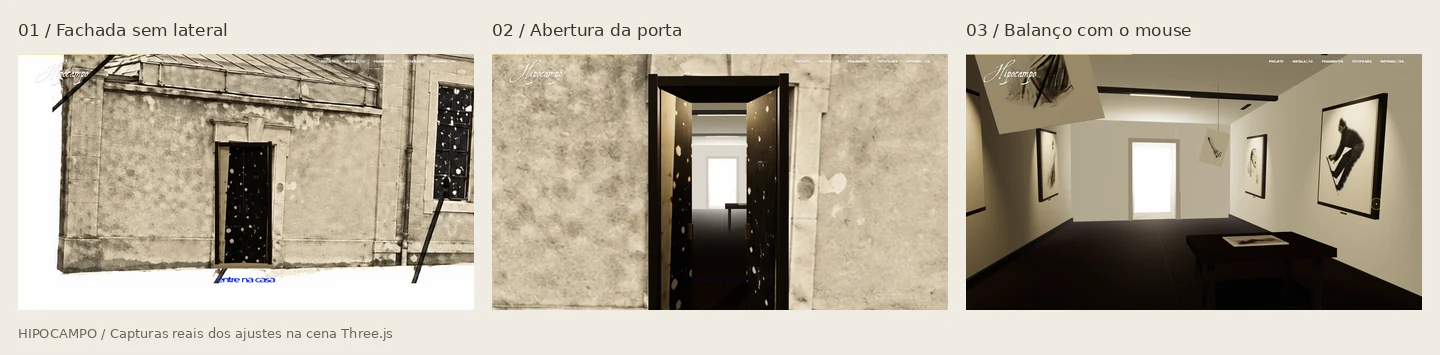
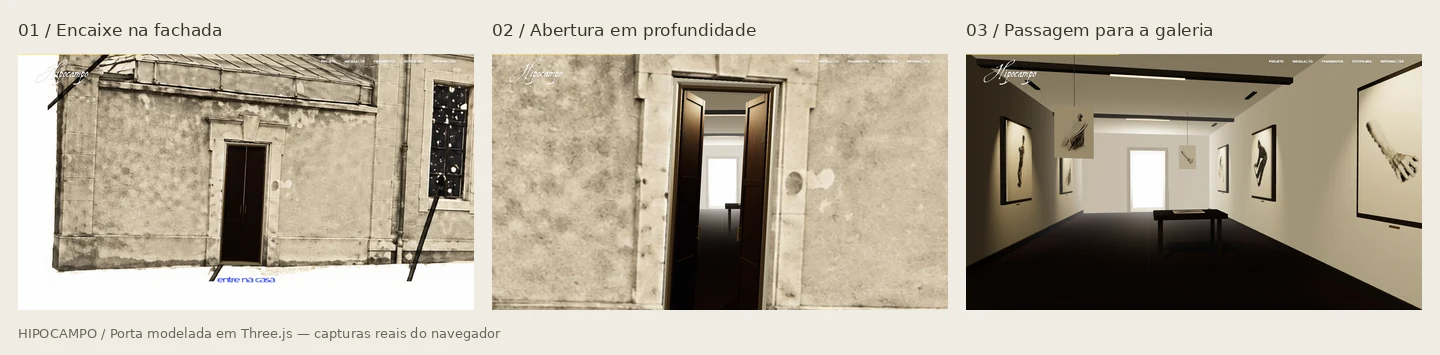
fix(casa): encaixar porta na fachada e modelar folhas em 3D

diff --git a/Kimi_Agent_HIPOCAMPO 3D Interactive Site/hipocampo/public/assets/house-doorway.js b/Kimi_Agent_HIPOCAMPO 3D Interactive Site/hipocampo/public/assets/house-doorway.js
@@ -1,0 +1,122 @@
+import * as THREE from './vendor/three.module.min.js'
+
+// Inner stone opening measured on peca-16-hd.webp (1712 x 1408).
+// Clockwise from the top left. Keep the photographed stone surround intact.
+const PHOTO_SIZE = [1712, 1408]
+const PHOTO_CORNERS = [[462, 1038], [571, 1045], [553, 1345], [447, 1343]]
+
+export function fitHouseDoorway(houseData, unit, toWorld) {
+  const corners = PHOTO_CORNERS.map(([x, y]) => toWorld(
+    houseData.x + x / PHOTO_SIZE[0] * houseData.w,
+    houseData.y + y / PHOTO_SIZE[1] * houseData.h,
+  ))
+  const center = corners.reduce((sum, p) => sum.add(p), new THREE.Vector3()).multiplyScalar(.25)
+  const bottom = corners[2].clone().add(corners[3]).multiplyScalar(.5)
+  const top = corners[0].clone().add(corners[1]).multiplyScalar(.5)
+  const width = ((corners[1].x - corners[0].x) + (corners[2].x - corners[3].x)) / 2
+  const height = top.y - bottom.y
+  const horizontal = corners[1].clone().sub(corners[0]).add(corners[2].clone().sub(corners[3])).multiplyScalar(.5 / width)
+  const vertical = top.clone().sub(bottom).multiplyScalar(1 / height)
+  const matrix = new THREE.Matrix4().set(
+    horizontal.x, vertical.x, 0, bottom.x - center.x,
+    horizontal.y, vertical.y, 0, 0,
+    0, 0, 1, 0,
+    0, 0, 0, 1,
+  )
+  const localCorners = corners.map(p => new THREE.Vector3(p.x - center.x, p.y - bottom.y, 0))
+  const edges = corners.map((p, i) => {
+    const next = corners[(i + 1) % corners.length]
+    const normal = new THREE.Vector3(-(next.y - p.y), next.x - p.x, 0).normalize()
+    normal.z = -(normal.x * p.x + normal.y * p.y)
+    if (normal.x * center.x + normal.y * center.y + normal.z < 0) normal.negate()
+    return normal
+  })
+  const modelCorners = [[-width / 2, height], [width / 2, height], [width / 2, 0], [-width / 2, 0]]
+  const residual = Math.max(...modelCorners.map(([x, y], i) => new THREE.Vector3(x, y, 0).applyMatrix4(matrix).distanceTo(localCorners[i])))
+  return { center, width, height, floorY: bottom.y, localCorners, edges, matrix, modelFitResidualPx: residual * unit * PHOTO_SIZE[0] / houseData.w }
+}
+
+function chamferedBox(width, height, depth, bevel = .003) {
+  const b = Math.min(bevel, width / 4, height / 4, depth / 4)
+  const w = width / 2 - b, h = height / 2 - b
+  const outline = new THREE.Shape()
+  outline.moveTo(-w, -h)
+  outline.lineTo(w, -h)
+  outline.lineTo(w, h)
+  outline.lineTo(-w, h)
+  outline.closePath()
+  const geometry = new THREE.ExtrudeGeometry(outline, { depth: depth - 2 * b, steps: 1, bevelEnabled: true, bevelThickness: b, bevelSize: b, bevelSegments: 2, curveSegments: 1 })
+  geometry.translate(0, 0, -(depth - 2 * b) / 2)
+  return geometry
+}
+
+export function buildHouseDoorway({ parent, profile, mesh, box, mat, woodMap, plasterMap, textures }) {
+  const { width: w, height: h } = profile
+  const grain = woodMap.clone()
+  grain.repeat.set(.8, 1.6)
+  grain.center.set(.5, .5)
+  grain.rotation = Math.PI / 2
+  grain.needsUpdate = true
+  textures.add(grain)
+  const material = options => mat({ stencilWrite: false, ...options })
+  const oak = material({ color: '#a59173', map: grain, bumpMap: grain, bumpScale: .006, roughness: .78 })
+  const insetOak = material({ color: '#756750', map: grain, bumpMap: grain, bumpScale: .004, roughness: .86 })
+  const endGrain = material({ color: '#61513b', roughness: .88 })
+  const limestone = material({ color: '#dedbd2', bumpMap: plasterMap, bumpScale: .012, roughness: .98 })
+  const thresholdStone = material({ color: '#929083', bumpMap: plasterMap, bumpScale: .012, roughness: .99 })
+  const agedBrass = material({ color: '#9c8053', metalness: .55, roughness: .6 })
+  const iron = material({ color: '#39362e', metalness: .45, roughness: .72 })
+  const chamfer = (group, dimensions, surface, at, bevel = .003) => mesh(group, chamferedBox(...dimensions, bevel), surface, at)
+
+  // Recessed lining: its front stays behind the stone photographed at z=0.
+  // No oversized black frame or projecting yellow platform covers that stone.
+  for (const side of [-1, 1]) {
+    box(parent, [.016, h, .3], limestone, [side * (w / 2 - .008), h / 2, -.16])
+    chamfer(parent, [.025, h - .04, .075], endGrain, [side * (w / 2 - .04), h / 2, -.079])
+  }
+  box(parent, [w, .016, .3], limestone, [0, h - .008, -.16])
+  chamfer(parent, [w - .07, .025, .075], endGrain, [0, h - .043, -.079])
+  chamfer(parent, [w, .03, .28], thresholdStone, [0, .007, -.145], .004)
+
+  const openingW = w - .094, leafH = h - .092, leafW = openingW / 2 - .003
+  const doors = []
+  for (const side of [-1, 1]) {
+    const pivot = new THREE.Group()
+    pivot.name = side < 0 ? 'house-door-left' : 'house-door-right'
+    pivot.position.set(side * openingW / 2, h / 2, -.115)
+    parent.add(pivot)
+    const leaf = new THREE.Group()
+    leaf.position.x = -side * leafW / 2
+    pivot.add(leaf)
+    // Raised stiles/rails and genuinely recessed panels catch moving light.
+    chamfer(leaf, [leafW, leafH, .035], insetOak, [0, 0, -.015], .004)
+    const stileW = .041, railH = .064
+    for (const x of [-leafW / 2 + stileW / 2, leafW / 2 - stileW / 2]) chamfer(leaf, [stileW, leafH, .028], oak, [x, 0, .009])
+    const panelH = (leafH - railH * 4) / 3
+    for (let i = 0; i < 4; i++) {
+      const y = -leafH / 2 + railH / 2 + i * (panelH + railH)
+      chamfer(leaf, [leafW - 2 * stileW, railH, .028], oak, [0, y, .009])
+    }
+    for (let i = 0; i < 3; i++) {
+      const y = -leafH / 2 + railH + panelH / 2 + i * (panelH + railH)
+      chamfer(leaf, [leafW - 2 * stileW - .012, panelH - .012, .014], oak, [0, y, -.004], .005)
+    }
+    const handleX = -side * (leafW / 2 - .047)
+    chamfer(leaf, [.027, .2, .008], iron, [handleX, -.12, .028], .002)
+    for (const y of [-.174, -.066]) {
+      const bracket = mesh(leaf, new THREE.CylinderGeometry(.0045, .0045, .025, 8), agedBrass, [handleX, y, .042])
+      bracket.rotation.x = Math.PI / 2
+    }
+    mesh(leaf, new THREE.CylinderGeometry(.009, .009, .13, 10), agedBrass, [handleX, -.12, .055])
+    for (const y of [-leafH * .33, leafH * .33]) {
+      chamfer(leaf, [.055, .08, .006], iron, [side * (leafW / 2 - .024), y, .025], .0015)
+      mesh(leaf, new THREE.CylinderGeometry(.009, .009, .084, 10), iron, [side * leafW / 2, y, .018])
+    }
+    doors.push({ pivot, side })
+  }
+  // Light the physical front surfaces; the photographic facade stays unlit.
+  const porchLight = new THREE.PointLight('#f8ead2', 7, 6, 2)
+  porchLight.position.set(-.9, 3.1, 2.6)
+  parent.add(porchLight)
+  return { doors, leafThickness: .056, hingeDepth: -.115 }
+}

diff --git a/Kimi_Agent_HIPOCAMPO 3D Interactive Site/hipocampo/public/assets/house-interior.js b/Kimi_Agent_HIPOCAMPO 3D Interactive Site/hipocampo/public/assets/house-interior.js
@@ -1,11 +1,12 @@
 import * as THREE from './vendor/three.module.min.js'
+import { buildHouseDoorway } from './house-doorway.js?v=door-fit-1'
 
 // The archive is built in metres, at the same scale as the photographed door.
 // The camera traverses its threshold and exit; no screen-space opening is used.
-export function createHouseInterior({ scene, door, facade, houseData, unit, pieces, loadTexture }) {
+export function createHouseInterior({ scene, door, facade, doorway, unit, pieces, loadTexture }) {
   const width = 5.8, height = 3.65, depth = 14
-  const doorW = .94, doorH = 2.3
-  const floorY = door.y - doorH / 2
+  const doorW = doorway.width, doorH = doorway.height
+  const floorY = doorway.floorY
   const root = new THREE.Group()
   root.name = 'house-archive'
   root.position.set(door.x, floorY, 0)
@@ -35,12 +36,6 @@ export function createHouseInterior({ scene, door, facade, houseData, unit, piec
     portalMaterials.add(m)
     return m
   }
-  const unmasked = material => {
-    const m = material.clone()
-    m.stencilWrite = false
-    surfaces.add(m)
-    return m
-  }
 
   // Before crossing the threshold, the archive may only be seen through the
   // doorway. A stencil aperture also hides walls beyond the photo's silhouette.
@@ -50,7 +45,10 @@ export function createHouseInterior({ scene, door, facade, houseData, unit, piec
     stencilZPass: THREE.ReplaceStencilOp,
   })
   surfaces.add(portalMaterial)
-  const portal = mesh(root, new THREE.PlaneGeometry(doorW, doorH), portalMaterial, [0, doorH / 2, 0], false)
+  const portalOutline = new THREE.Shape()
+  doorway.localCorners.forEach((p, i) => i ? portalOutline.lineTo(p.x, p.y) : portalOutline.moveTo(p.x, p.y))
+  portalOutline.closePath()
+  const portal = mesh(root, new THREE.ShapeGeometry(portalOutline), portalMaterial, [0, 0, 0], false)
   portal.name = 'house-door-portal'
   portal.renderOrder = -30
   let portalActive = true
@@ -155,39 +153,22 @@ export function createHouseInterior({ scene, door, facade, houseData, unit, piec
   root.add(thresholdLight)
 
   // The photographic door has a fixed architectural opening in world space.
-  const aperture = new THREE.Vector4(door.x, floorY + doorH / 2, doorW / 2, doorH / 2)
   facade.onBeforeCompile = shader => {
-    shader.uniforms.houseDoor = { value: aperture }
+    shader.uniforms.houseEdges = { value: doorway.edges }
     shader.vertexShader = 'varying vec2 houseWorldXY;\n' + shader.vertexShader.replace('#include <begin_vertex>', '#include <begin_vertex>\nhouseWorldXY = (modelMatrix * vec4(transformed, 1.0)).xy;')
-    shader.fragmentShader = 'varying vec2 houseWorldXY;\nuniform vec4 houseDoor;\n' + shader.fragmentShader.replace('#include <clipping_planes_fragment>', '#include <clipping_planes_fragment>\nvec2 opening = abs(houseWorldXY - houseDoor.xy) - houseDoor.zw;\nif (max(opening.x, opening.y) < 0.0) discard;')
+    shader.fragmentShader = 'varying vec2 houseWorldXY;\nuniform vec3 houseEdges[4];\n' + shader.fragmentShader.replace('#include <clipping_planes_fragment>', '#include <clipping_planes_fragment>\nbool houseInside = true;\nfor (int i = 0; i < 4; i++) { houseInside = houseInside && dot(houseEdges[i], vec3(houseWorldXY, 1.0)) > 0.0; }\nif (houseInside) discard;')
   }
-  facade.customProgramCacheKey = () => 'house-physical-door-v2'
+  facade.customProgramCacheKey = () => 'house-calibrated-door-v1'
   const entrance = new THREE.Group()
+  entrance.name = 'house-entrance'
+  entrance.matrixAutoUpdate = false
+  entrance.matrix.copy(doorway.matrix)
   root.add(entrance)
   const sideW = (width - doorW) / 2
   const frontPanels = [-1, 1].map(side => box(entrance, [sideW, height, .2], plaster, [side * (doorW / 2 + sideW / 2), height / 2, -.18], false))
   box(entrance, [doorW, height - doorH, .2], plaster, [0, doorH + (height - doorH) / 2, -.18], false)
-  const entranceWood = unmasked(darkWood), entranceBrass = unmasked(brass), entranceStone = unmasked(stone)
-  for (const x of [-doorW / 2 - .035, doorW / 2 + .035]) box(entrance, [.07, doorH + .08, .48], entranceWood, [x, (doorH + .08) / 2, -.13])
-  box(entrance, [doorW + .14, .075, .48], entranceWood, [0, doorH + .025, -.13])
-  box(entrance, [doorW + .2, .055, .6], entranceStone, [0, .015, -.12])
-  const doors = []
-  const u0 = (277 - doorW * unit / 2 - houseData.x) / houseData.w
-  const v0 = 1 - (527 + doorH * unit / 2 - houseData.y) / houseData.h
-  for (const side of [-1, 1]) {
-    const pivot = new THREE.Group()
-    pivot.position.set(side * doorW / 2, doorH / 2, .025)
-    entrance.add(pivot)
-    const doorTexture = facade.map.clone()
-    doorTexture.offset.set(u0 + (side > 0 ? doorW * unit / (2 * houseData.w) : 0), v0)
-    doorTexture.repeat.set(doorW * unit / (2 * houseData.w), doorH * unit / houseData.h)
-    doorTexture.needsUpdate = true
-    textures.add(doorTexture)
-    const face = mat({ map: doorTexture, roughness: .84, stencilWrite: false })
-    const panel = box(pivot, [doorW / 2, doorH, .065], [entranceWood, entranceWood, entranceWood, entranceWood, face, entranceWood], [-side * doorW / 4, 0, -.02])
-    box(pivot, [.023, .14, .045], entranceBrass, [-side * (doorW / 2 - .07), -.06, .04])
-    doors.push({ pivot, side, panel })
-  }
+  const entryModel = buildHouseDoorway({ parent: entrance, profile: doorway, mesh, box, mat, woodMap, plasterMap, textures })
+  const doors = entryModel.doors
 
   // A table and suspended prints create near/middle/far parallax in the archive.
   const table = new THREE.Group()
@@ -260,7 +241,7 @@ export function createHouseInterior({ scene, door, facade, houseData, unit, piec
         m.position.x = (i ? 1 : -1) * (currentWidth + exitW) / 4
       })
     },
-    inspect: () => ({ portalActive, doorway: { center: [door.x, floorY + doorH / 2, 0], width: doorW, height: doorH }, swings: pendulums.map(p => ({ angle: p.angle, velocity: p.velocity, free: p.free })) }),
+    inspect: () => ({ portalActive, doorway: { center: [door.x, floorY + doorH / 2, 0], width: doorW, height: doorH, corners: doorway.localCorners.map(p => [door.x + p.x, floorY + p.y, 0]), modelFitResidualPx: doorway.modelFitResidualPx, leafThickness: entryModel.leafThickness, hingeDepth: entryModel.hingeDepth }, swings: pendulums.map(p => ({ angle: p.angle, velocity: p.velocity, free: p.free })) }),
     update(open, time, motion, pointer, dt, camera) {
       // Switch only after the aperture fills the view, before its near plane
       // can be clipped. The same rule applies when scrolling backwards.

diff --git a/Kimi_Agent_HIPOCAMPO 3D Interactive Site/hipocampo/public/assets/page3-house.js b/Kimi_Agent_HIPOCAMPO 3D Interactive Site/hipocampo/public/assets/page3-house.js
@@ -1,14 +1,14 @@
 // A continuous camera passes through a physical doorway, crosses the archive
 // and leaves through its far opening. The original memory map stays aligned.
 import * as THREE from './vendor/three.module.min.js'
-import { createHouseInterior } from './house-interior.js?v=door-sway-1'
+import { createHouseInterior } from './house-interior.js?v=door-fit-1'
+import { fitHouseDoorway } from './house-doorway.js?v=door-fit-1'
 import { n as gsap, t as ScrollTrigger } from './index-BXEErpTi.js?v=perf-1'
 
 gsap.registerPlugin(ScrollTrigger)
 
 const MANIFEST_URL = '/images/map/manifest.json'
 const UNIT = 16 // the photographed doorway is approximately 1 × 2.3 metres
-const DOOR_PX = { x: 277, y: 527 } // porta da casa (coordenadas da imagem fonte)
 const clamp = (v, a, b) => Math.min(b, Math.max(a, v))
 const smooth = (a, b, v) => { const t = clamp((v - a) / (b - a), 0, 1); return t * t * (3 - 2 * t) }
 const lerp = (a, b, t) => a + (b - a) * t
@@ -106,8 +106,9 @@ async function mount(section) {
   const lineMat = new THREE.LineBasicMaterial({ color: manifest.lineColor, transparent: true, toneMapped: false })
   scene.add(new THREE.LineSegments(lineGeo, lineMat))
 
-  const door = toWorld(DOOR_PX.x, DOOR_PX.y)
-  const archive = createHouseInterior({ scene, door, facade: housePiece.mat, houseData: housePiece.d, unit: UNIT, pieces: others, loadTexture })
+  const doorway = fitHouseDoorway(housePiece.d, UNIT, toWorld)
+  const door = doorway.center
+  const archive = createHouseInterior({ scene, door, facade: housePiece.mat, doorway, unit: UNIT, pieces: others, loadTexture })
 
   // ---------- câmera ----------
   const mapH = manifest.height / UNIT
@@ -305,7 +306,7 @@ async function mount(section) {
     renderer.setClearColor(0xffffff, reduced ? 1 : smooth(0.0, 0.05, p))
 
     capA.style.opacity = String(reduced ? 0 : smooth(0.01, 0.08, p) * (1 - smooth(0.2, 0.3, p)))
-    capB.style.opacity = String(reduced ? 0 : smooth(.22, .29, p) * (1 - smooth(.37, .43, p)))
+    capB.style.opacity = String(reduced ? 0 : smooth(.22, .29, p) * (1 - smooth(.30, .36, p)))
     renderer.toneMappingExposure = lerp(.95, 1.35, leave)
     if (!reduced && p >= .995) {
       renderer.setClearColor(exitPaper, 1)

diff --git a/Kimi_Agent_HIPOCAMPO 3D Interactive Site/hipocampo/index.html b/Kimi_Agent_HIPOCAMPO 3D Interactive Site/hipocampo/index.html
@@ -35,7 +35,7 @@
     <script type="module" src="/assets/hero-motion.js?v=navigation-3"></script>
     <script type="module" src="/assets/page2-motion.js?v=perf-1"></script>
     <script type="module" src="/assets/memory-map.js?v=perf-1"></script>
-    <script type="module" src="/assets/page3-house.js?v=door-sway-1"></script>
+    <script type="module" src="/assets/page3-house.js?v=door-fit-1"></script>
     <script type="module" src="/assets/page4-sobre.js?v=pointer-4"></script>
     <script type="module" src="/assets/page5-vestigios.js?v=1"></script>
     <script type="module" src="/assets/editorial-motion.js?v=perf-1"></script>

diff --git a/Kimi_Agent_HIPOCAMPO 3D Interactive Site/hipocampo/tools/house-journey-qa.py b/Kimi_Agent_HIPOCAMPO 3D Interactive Site/hipocampo/tools/house-journey-qa.py
@@ -73,9 +73,40 @@ def pointer_handoff_check(page,w,h):
     check(f'{w}: entrada e retorno contínuos com mouse fora do centro', jump<.025 and turn<.002 and return_jump<.025 and return_turn<.002, {'distance':jump,'rotation':turn,'return_distance':return_jump,'return_rotation':return_turn})
 
 
+def fitted_door_check(page,w):
+    go(page,.37)
+    projection=page.evaluate('''()=>{
+      const {scene,camera,THREE,renderer}=window.__houseQA;
+      let facade;
+      scene.traverse(o=>{if(o.isMesh&&o.material.map?.image?.width===1712&&o.material.map.image.height===1408)facade=o;});
+      const portal=scene.getObjectByName('house-door-portal');
+      const vertices=portal.geometry.attributes.position;
+      const actual=Array.from({length:vertices.count},(_,i)=>portal.localToWorld(new THREE.Vector3().fromBufferAttribute(vertices,i)).project(camera));
+      const {width,height}=facade.geometry.parameters;
+      const reference=[[462,1038],[571,1045],[553,1345],[447,1343]].map(([x,y])=>facade.localToWorld(new THREE.Vector3((x/1712-.5)*width,(.5-y/1408)*height,0)).project(camera));
+      const residuals=reference.map(p=>Math.min(...actual.map(q=>Math.hypot((p.x-q.x)*renderer.domElement.width/2,(p.y-q.y)*renderer.domElement.height/2))));
+      return {maximumPixelError:Math.max(...residuals),corners:actual.length};
+    }''')
+    check(f'{w}: abertura encaixada nos quatro cantos da fotografia',projection['corners']==4 and projection['maximumPixelError']<1,projection)
+    check(f'{w}: legenda libera a porta no enquadramento fechado',float(page.locator('.page3-caption--b').evaluate('el=>getComputedStyle(el).opacity'))<.01)
+    go(page,.29)
+    closed=page.evaluate('''()=>{
+      const {scene,THREE}=window.__houseQA;
+      return ['house-door-left','house-door-right'].map(name=>{const box=new THREE.Box3().setFromObject(scene.getObjectByName(name));return {front:box.max.z,back:box.min.z,depth:box.max.z-box.min.z};});
+    }''')
+    check(f'{w}: folhas têm volume e ficam recuadas na fachada',all(leaf['depth']>.07 and leaf['front']<-.025 for leaf in closed),closed)
+    go(page,.48)
+    opened=page.evaluate('''()=>{
+      const {scene,THREE}=window.__houseQA;
+      return ['house-door-left','house-door-right'].map(name=>new THREE.Box3().setFromObject(scene.getObjectByName(name)).min.z);
+    }''')
+    check(f'{w}: dobradiças abrem as duas folhas em profundidade',all(z<-.4 for z in opened),opened)
+
+
 def doorway_and_mouse_checks(page, w, h):
     go(page, .2)
     page.wait_for_function('window.__houseQA != null')
+    fitted_door_check(page,w)
     for progress in [.2,.29,.32,.37,.42,.48]:
         go(page, progress)
         pixels=page.evaluate('''()=>{

diff --git a/Kimi_Agent_HIPOCAMPO 3D Interactive Site/hipocampo/docs/house-journey.md b/Kimi_Agent_HIPOCAMPO 3D Interactive Site/hipocampo/docs/house-journey.md
@@ -11,7 +11,27 @@ com espessura, piso de madeira, paredes, teto, trilhos de luz, quadros com supor
 fotografias penduradas e mesa com uma impressão. A abertura em tela do shader
 `paper-transition.js` não é utilizada.
 
-![Fachada, porta e balanço: capturas reais dos ajustes no Three.js](house-journey-preview.webp)
+![Encaixe, abertura e passagem: capturas reais da porta no Three.js](house-journey-preview.webp)
+
+## Encaixe e construção da entrada
+
+A abertura acompanha os quatro cantos da porta na fotografia original
+`peca-16-hd.webp` (1712×1408). Essa calibração orienta o recorte da fachada,
+o stencil e a posição da entrada, preservando a pedra já presente na imagem.
+O centro e o nível do piso também vêm dessa abertura. Ao substituir a foto,
+atualize os pontos de referência em `house-doorway.js`.
+
+O conjunto de madeira acompanha os eixos da abertura. O batente fica recuado
+na pedra, com o eixo das dobradiças a 11,5 cm da fachada. Cada folha possui
+estrutura com cerca de 5,6 cm de espessura, montantes, travessas, três painéis
+rebaixados, bordas chanfradas, dobradiças e puxadores volumétricos. A textura
+de nogueira existente recebe acabamento escuro, relevo e luz; a fotografia da
+fachada não é mais esticada sobre as folhas.
+
+O revestimento interno é estreito e permanece atrás do plano da foto para
+evitar sobreposição. Uma soleira baixa em pedra escura integra o piso à entrada.
+Uma luz suave ilumina a frente das folhas enquanto abrem. A legenda de entrada
+desaparece entre 30% e 36% do percurso, antes do enquadramento fechado do batente.
 
 ## Balanço e oclusão da porta
 
@@ -21,7 +41,7 @@ quadros e 14,3° nas imagens livres. O movimento desacelera ao parar o mouse, se
 arrastar a página; o touch continua dedicado ao scroll. A integração usa o
 tempo entre frames e pequenos passos para manter o balanço estável.
 
-Enquanto a câmera está fora, um stencil restringe a sala ao retângulo da porta.
+Enquanto a câmera está fora, um stencil restringe a sala ao quadrilátero da porta.
 Isso impede que paredes, piso e fundo apareçam nas partes transparentes da foto
 ou além da lateral da casa. O recorte é desativado somente quando já preenche a
 tela, antes de alcançar o near plane, e volta a funcionar no scroll reverso.
@@ -60,11 +80,13 @@ instalação interativa mais abaixo na página.
 
 - `public/assets/page3-house.js`: mapa, câmera contínua, progresso, exposição,
   visibilidade, preferência de movimento e fallback.
-- `public/assets/house-interior.js`: arquitetura, porta, piso, coleção, luzes,
+- `public/assets/house-interior.js`: arquitetura, stencil, piso, coleção, luzes,
   adaptação da largura ao celular e descarte dos recursos.
+- `public/assets/house-doorway.js`: calibração dos quatro cantos na foto,
+  batente recuado, folhas articuladas, painéis, ferragens e luz da entrada.
 - `public/assets/page3-house.css`: altura do percurso, viewport sticky, legendas
   e união com a próxima seção.
-- `index.html`: módulo `?v=door-sway-1` e estilo `?v=depth-1` para invalidar o cache.
+- `index.html`: módulos `?v=door-fit-1` e estilo `?v=depth-1` para invalidar o cache.
 
 Usa o Three.js local, os recortes do mapa e as texturas/fotografias já existentes
 no projeto. Nenhuma dependência de runtime foi adicionada. Apenas uma cena é
@@ -95,12 +117,16 @@ no navegador. O QA compara pixels com/sem a sala para detectar qualquer vazament
 fora da abertura em seis pontos da aproximação, verifica dois frames parados
 da porta e usa movimentos reais do mouse para testar o balanço dos dois tipos
 de imagem.
+Também compara a projeção dos quatro cantos da abertura com os pontos da foto,
+verifica o volume e o recuo das folhas fechadas, a profundidade da abertura
+nas dobradiças e a retirada da legenda do enquadramento fechado.
 
-A validação em Chromium passou em 62 verificações, com viewports de 1366×768 e
+A validação em Chromium passou em 70 verificações, com viewports de 1366×768 e
 390×844: passagem física, continuidade da câmera com o mouse fora do centro,
-reversão, ausência de vazamento lateral, estabilidade da porta, balanço com o
-mouse, resize, próxima seção, movimento reduzido, perda de contexto, ausência
-de WebGL e assets locais.
+reversão, alinhamento com a fotografia, volume e recuo das folhas, dobradiças,
+ausência de vazamento lateral, estabilidade da porta, balanço com o mouse,
+resize, próxima seção, movimento reduzido, perda de contexto, ausência de WebGL
+e assets locais.
 Esses resultados verificam comportamento e renderização; não medem FPS em
 aparelhos reais.
 
@@ -111,8 +137,10 @@ aparelhos reais.
 - Antes dos ajustes da porta e do balanço: `7b6fe74`, tag
   `backup/casa-antes-ajustes-porta-2026-11-04`.
 - Ajustes da porta e do balanço: tag `release/casa-balanco-porta-2026-11-04`.
+- Antes do novo encaixe: `4ecb628`, tag `backup/casa-antes-encaixe-2026-11-05`.
+- Porta alinhada e remodelada: tag `release/casa-porta-perspectiva-2026-11-05`.
 
 Para desfazer apenas estes ajustes, use
-`git revert release/casa-balanco-porta-2026-11-04` e faça um push normal.
+`git revert release/casa-porta-perspectiva-2026-11-05` e faça um push normal.
 Não é necessário alterar as correções anteriores da sala
 interativa ou da posição dos botões.
